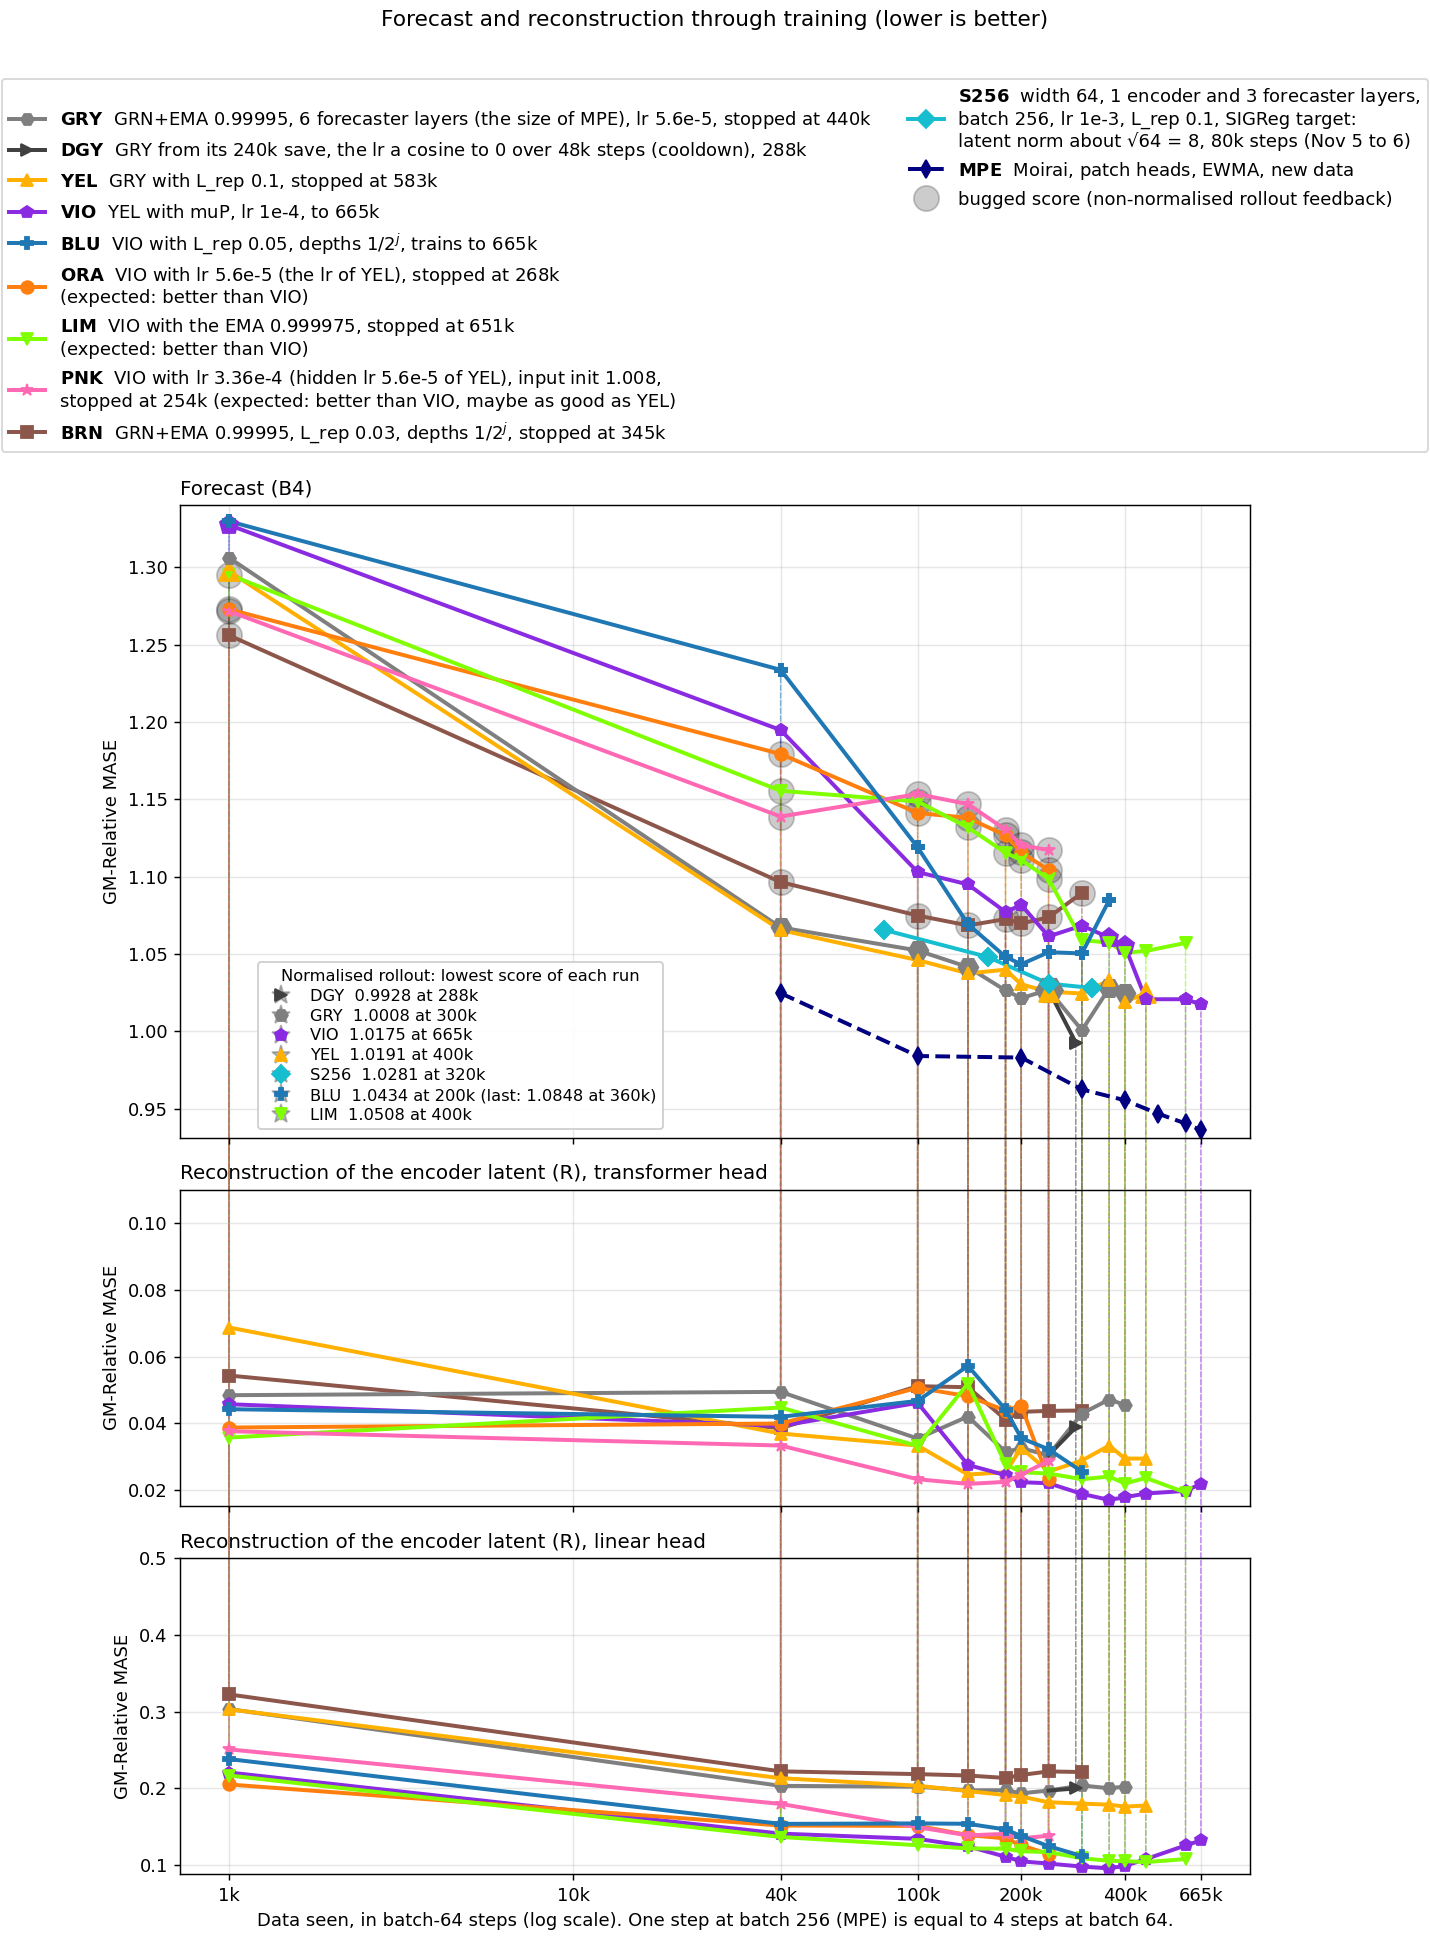
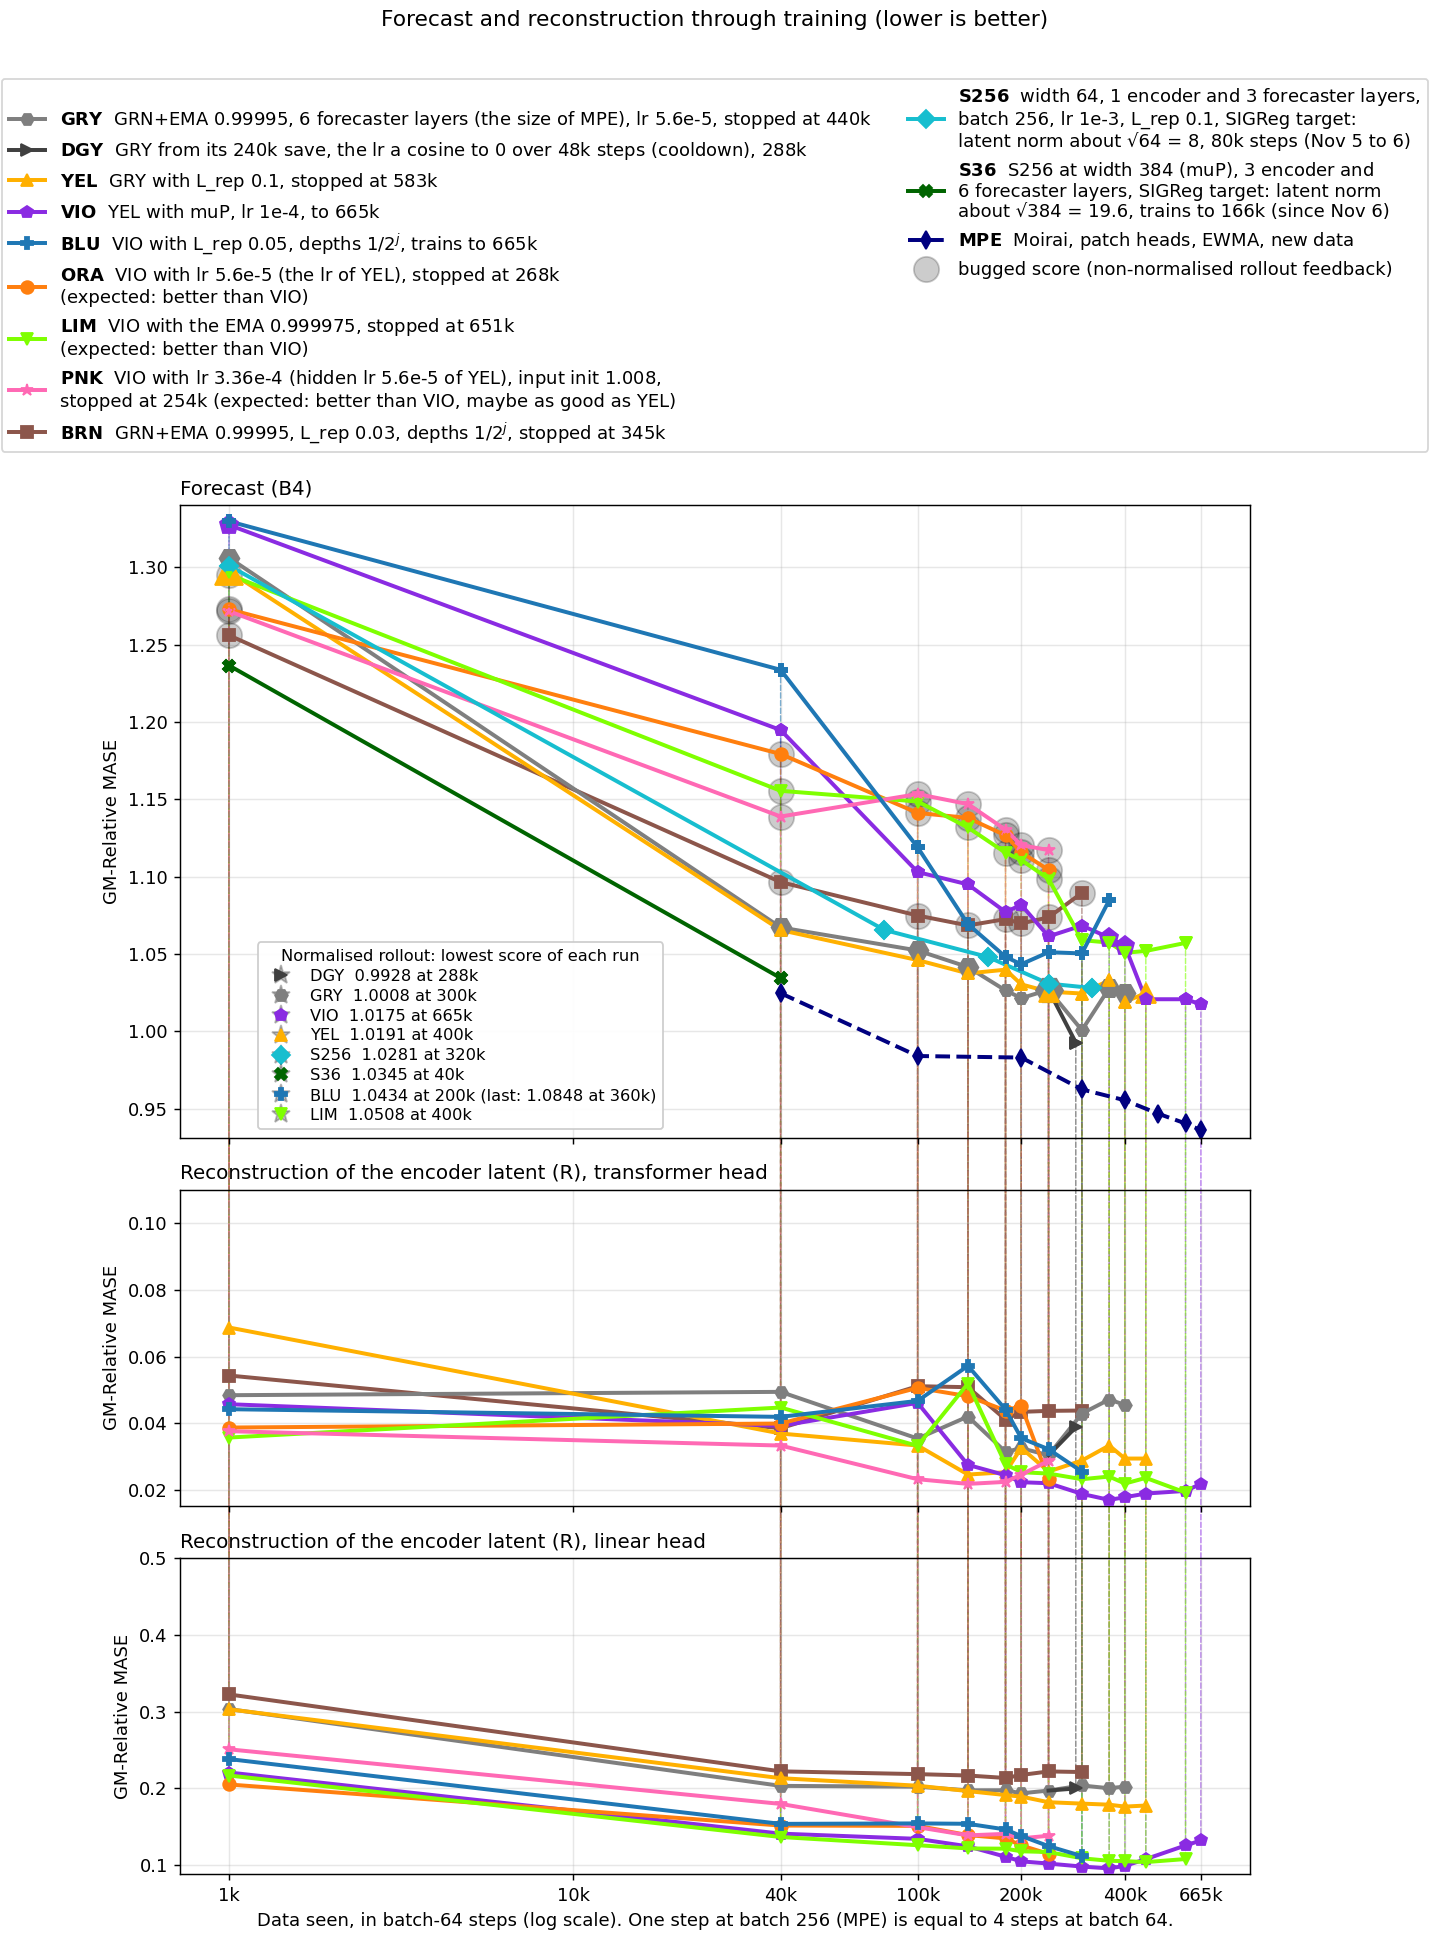
GM MASE figure: S36 (S256 at width 384) at 250 steps and 10k; the sphere run at 20k with the fixed head path
- S36 = grn_ema099995_f6_rep01_ss256 (width 384, 3 encoder and 6 forecaster layers, 166k steps):
  1.2365 after 250 steps (1k on the axis) and 1.0345 at 10k (40k on the axis); MPE 1.0247 at 10k.
  Its points come from results/ss256_gm_points.tsv.
- S256 after 250 steps: 1.3010 (1k on the axis). read_table takes the stop 0.25.
- The latent-sphere run at 20k with the head path of #454: 1.0658 (old head path 1.0691;
  without the sphere 1.0656).

diff --git a/reports/2026-10-10_frequency_family_head/scripts/plot_green_scores.py b/reports/2026-10-10_frequency_family_head/scripts/plot_green_scores.py
@@ -98,11 +98,14 @@ GRID_POINTS = STUDY / "results" / "grid40k_gm_points.tsv"
 # The one grid run of this figure (the user, 11-06: the heatmap compares the grid runs; this figure
 # keeps the long runs, and S256 has the most stops of the grid).
 G256_SS = "g80b_lr1em3_tau99995_bs256_rep01_sigfix_ss_rollfix"
-XSCALE = {**XSCALE, G256_SS: 4}
-# Its scores with the normalised rollout feedback.
-GRID_FIXED = {G256_SS}
-# Drawn above the runs of width 384.
-GRID_ARMS = GRID_FIXED
+# The 166k-step run of width 384 with the flags of S256 (the user, 11-06): its forecast in
+# results/ss256_gm_points.tsv, in the form of GRID_POINTS.
+SS256_POINTS = STUDY / "results" / "ss256_gm_points.tsv"
+SS256 = "grn_ema099995_f6_rep01_ss256"
+XSCALE = {**XSCALE, G256_SS: 4, SS256: 4}
+# The runs of the two tables: all their scores use the normalised rollout feedback. Drawn above
+# the older runs.
+TABLE_ARMS = {G256_SS, SS256}
 # The runs of this report: their forecast comes from results/scores.tsv.
 NEW_RUNS = [GRN_EMA099995, GRN_EMA099995_F6,
             GRN_EMA099995_F6_REP01, GRN_EMA099995_F6_REP01_MUP,
@@ -160,6 +163,9 @@ RUNS = [
     (G256_SS, r"$\mathbf{S256}$  width 64, 1 encoder and 3 forecaster layers," "\n"
      "batch 256, lr 1e-3, L_rep 0.1, SIGReg target:" "\n"
      "latent norm about √64 = 8, 80k steps (Nov 5 to 6)", "#17becf", "D"),
+    (SS256, r"$\mathbf{S36}$  S256 at width 384 (muP), 3 encoder and" "\n"
+     "6 forecaster layers, SIGReg target: latent norm" "\n"
+     "about √384 = 19.6, trains to 166k (since Nov 6)", "#006400", "X"),
     (MPE, tagged(MPE, "Moirai, patch heads, EWMA, new data"), colour(MPE), "d"),
 ]
 OURS = STUDY / "results"
@@ -174,7 +180,8 @@ OUR_R_TABLES = ["grn_ema099995", "grn_ema099995_f6",
 # runs of this report comes from results/scores.tsv
 PANELS = [
     ("Forecast (B4)", (1.10, 1.34),
-     [MOIRAI / "results" / "gm_trajectories.tsv", RECON / "forecast_425.tsv", GRID_POINTS], True),
+     [MOIRAI / "results" / "gm_trajectories.tsv", RECON / "forecast_425.tsv", GRID_POINTS, SS256_POINTS],
+     True),
     ("Reconstruction of the encoder latent (R), transformer head", (0.02, 0.11),
      [RECON / "recon_trajectories.tsv"]
      + [OURS / f"recon_{table}_trajectories.tsv" for table in OUR_R_TABLES], False),
@@ -198,13 +205,14 @@ CLOSE = 0.0082
 
 def read_table(paths):
     """``{arm: {data seen in thousands of batch-64 steps: score}}`` from
-    tables of arm, stop k and score."""
+    tables of arm, stop k and score (stop 0.25: the save at 250 steps)."""
     points = {}
     for path in paths:
         if Path(path).is_file():
             for row in open(path):
                 arm, stop_k, score = row.split()
-                points.setdefault(arm, {})[int(stop_k) * XSCALE.get(arm, 1)] = float(score)
+                seen = float(stop_k) * XSCALE.get(arm, 1)
+                points.setdefault(arm, {})[int(seen) if seen.is_integer() else seen] = float(score)
     return points
 
 
@@ -237,8 +245,8 @@ def normalised_points():
                 starred.setdefault(row["run"], set()).add(int(row["stop_k"]) * XSCALE.get(row["run"], 1))
     for run, scores in rescores().items():
         starred.setdefault(run, set()).update(scores)
-    for run, scores in read_table([GRID_POINTS]).items():
-        if run in GRID_FIXED:
+    for run, scores in read_table([GRID_POINTS, SS256_POINTS]).items():
+        if run in TABLE_ARMS:
             starred.setdefault(run, set()).update(scores)
     return starred
 
@@ -257,9 +265,9 @@ def panel_points(tables, forecast):
 
 
 def later_near_runs(points, arm, stop):
-    """The number of runs of ON_TOP and of GRID_FIXED that RUNS draws after ``arm`` with almost
+    """The number of runs of ON_TOP and of TABLE_ARMS that RUNS draws after ``arm`` with almost
     the same score at ``stop`` (the other runs lie under every point)."""
-    names = [run for run, *_ in RUNS if run in ON_TOP | GRID_FIXED]
+    names = [run for run, *_ in RUNS if run in ON_TOP | TABLE_ARMS]
     score = points[arm][stop]
     return sum(abs(points.get(run, {}).get(stop, 9.0) - score) < CLOSE for run in names[names.index(arm) + 1:])
 
@@ -298,7 +306,7 @@ def draw_panel(ax, title, y_range, points, starred=None):
                     ls=style, lw=2.2, zorder=4)
         ax.plot([s * 1000 for s in stops], values, color=colour_hex, marker=marker,
                 ls=style, lw=2.2, ms=7, label=label,
-                zorder=5 if arm in FRONT else 4.5 if arm in GRID_ARMS else 4 if arm in BRANCHES
+                zorder=5 if arm in FRONT else 4.5 if arm in TABLE_ARMS else 4 if arm in BRANCHES
                 else 3 if arm in ON_TOP else 2)
         # the disc lies under the run lines: a marker of another run near it stays visible
         fixed = set(stops) & (starred or {}).get(arm, set())
@@ -306,7 +314,7 @@ def draw_panel(ax, title, y_range, points, starred=None):
         for stop in sorted(bugged):
             ax.plot(stop * 1000, min(points[arm][stop], y_range[1]), marker="o", ms=14,
                     color="black", alpha=0.2, ls="none", zorder=1.9)
-        if starred is not None and (arm in ON_TOP or arm in GRID_FIXED):
+        if starred is not None and (arm in ON_TOP or arm in TABLE_ARMS):
             draw_on_top(ax, points, arm, fixed, colour_hex, marker)
         for stop, value in zip(stops, values):
             if value > y_range[1]:

diff --git a/reports/2026-10-10_frequency_family_head/frequency_family_head.md b/reports/2026-10-10_frequency_family_head/frequency_family_head.md
@@ -26,7 +26,11 @@ At 180k, with the raw rollout, grey gets 1.0421 and yellow 1.0537.
 A light grey disc behind a point marks a bugged score, with the raw rollout.
 The forecast panel also shows one run of the 40k grid at the data it saw, S256: width 64, 1 encoder and 3 forecaster layers, batch 256, lr 1e-3, L_rep 0.1.
 The heatmap compares it with the other runs of the grid.
-With the SIGReg target at a latent norm of about √64 = 8, S256 gets 1.0656 at 20k, 1.0481 at 40k steps of batch 256 (160k on the axis), 1.0309 at 60k (240k on the axis) and 1.0281 at 80k (320k on the axis).
+With the SIGReg target at a latent norm of about √64 = 8, S256 gets 1.3010 after 250 steps of batch 256 (1k on the axis), 1.0656 at 20k, 1.0481 at 40k steps of batch 256 (160k on the axis), 1.0309 at 60k (240k on the axis) and 1.0281 at 80k (320k on the axis).
+S36 is S256 at width 384 with muP: 3 encoder and 6 forecaster layers, the SIGReg target at a latent norm of about √384 = 19.6, and 166k steps of batch 256 with the EMA ramp over the 166k steps.
+It gets 1.2365 after 250 steps (1k on the axis) and 1.0345 at 10k (40k on the axis).
+At 10k, its short, medium and long scores are 0.9384, 1.1893 and 1.1616, and MPE gets 1.0247.
+The scores after 250 steps come from a second run of the first 250 steps of S256 and of S36, with the same flags and seed: in each, the losses of steps 1 to 200 are equal to the losses of the run.
 With the normalised rollout, the best stops of grey (1.0269 at 240k), yellow (1.0304 at 200k) and violet (1.0208 at 460k) are below blue at 180k (1.0482).
 Grey at 200k gets 1.0215 with the normalised rollout, its lowest score.
 
@@ -109,9 +113,11 @@ With L_rep 0.05, the other 80k run gets 1.0770 at 40k (short 0.9769, medium 1.20
 At 80k, it gets 1.0347 (short 0.9351, medium 1.1755, long 1.1874), 0.0066 above the run with L_rep 0.1.
 Its short score is lower: 0.9351 against 0.9584.
 A third 80k run adds `--latent-sphere` to the L_rep 0.1 run (contrastive-forecasting #453): e, h and f go on one sphere of radius 8 after SIGReg.
-At 20k, it gets 1.0691 (short 0.9897, medium 1.1871, long 1.1781).
-At 40k, it gets 1.0610 (short 0.9580, medium 1.2082, long 1.2175), 0.0129 above the run without the sphere.
-With the sphere, the short score is lower (0.9580 against 0.9741), and the medium and long scores are higher (1.2082 against 1.1572, 1.2175 against 1.1500).
+In training, the encoder reads e on the sphere.
+The first heads of this run read the encoder output of the raw e: contrastive-forecasting #454 puts e on the sphere in the head path too.
+With the fixed head path, the run gets 1.0658 at 20k (short 0.9884, medium 1.1807, long 1.1724), 0.0002 above the run without the sphere.
+With the old head path, it got 1.0691 at 20k and 1.0610 at 40k (short 0.9580, medium 1.2082, long 1.2175).
+The heatmap row gives the 40k score of the old head path.
 The heatmap has its row.
 With the fixed rollout, batch 128 at 4e-4 gets 1.2440, and 1.1842 with the raw rollout (the middle column).
 This run trained with the raw rollout feedback.
